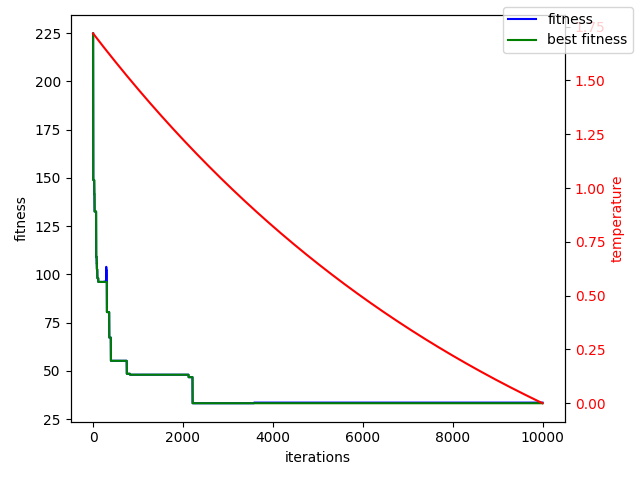
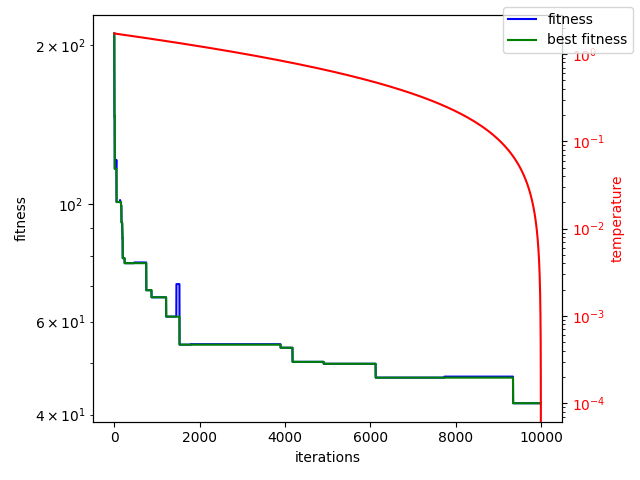
CRO works for n > 1 rastrigin

diff --git a/algorithms/coral_reef_optimization_rastrigin.py b/algorithms/coral_reef_optimization_rastrigin.py
@@ -14,14 +14,13 @@ def initialize(reef, init, N, M, p0, hf):
     numCorals = round((size * p0) / (1 - p0))
     indices = np.random.randint(low=0, high=size, size=numCorals)
 
-    for i in indices:
+    # random.sample samples without replacement
+    samples = random.sample(init, len(indices))
+    for idx, i in enumerate(indices):
         row = i // M
         col = i % M
         
-        # Randomly select solution from initial list of solutions
-        j = random.randint(0, len(init) - 1)
-        coral = init[j]
-        init.remove(coral)
+        coral = samples[idx]
 
         # Each coral is a tuple of solution and fitness
         reef[row][col] = (coral, hf(coral)) # TODO need fitness??
@@ -40,15 +39,12 @@ def separate(reef, pk):
     return bsp, br
 
 def broadcastSpawning(bsp, crossover, newCorals, hf):
-    while (len(bsp) > 1):
-        # select couple
-        couple = random.sample(bsp, 2)
-        c1 = couple[0]
-        c2 = couple[1]
+    samples = random.sample(bsp, len(bsp)//2*2)
+    for i in range(len(bsp)//2):
+        c1 = samples[2*i]
+        c2 = samples[2*i+1]
         larva = crossover(c1[0], c2[0], num_children=1)[0] # crossover returns array of children
 
-        bsp.remove(c1)
-        bsp.remove(c2)
         newCorals.append((larva, hf(larva)))
 
 def brooding(br, mutate, newCorals, hf):
